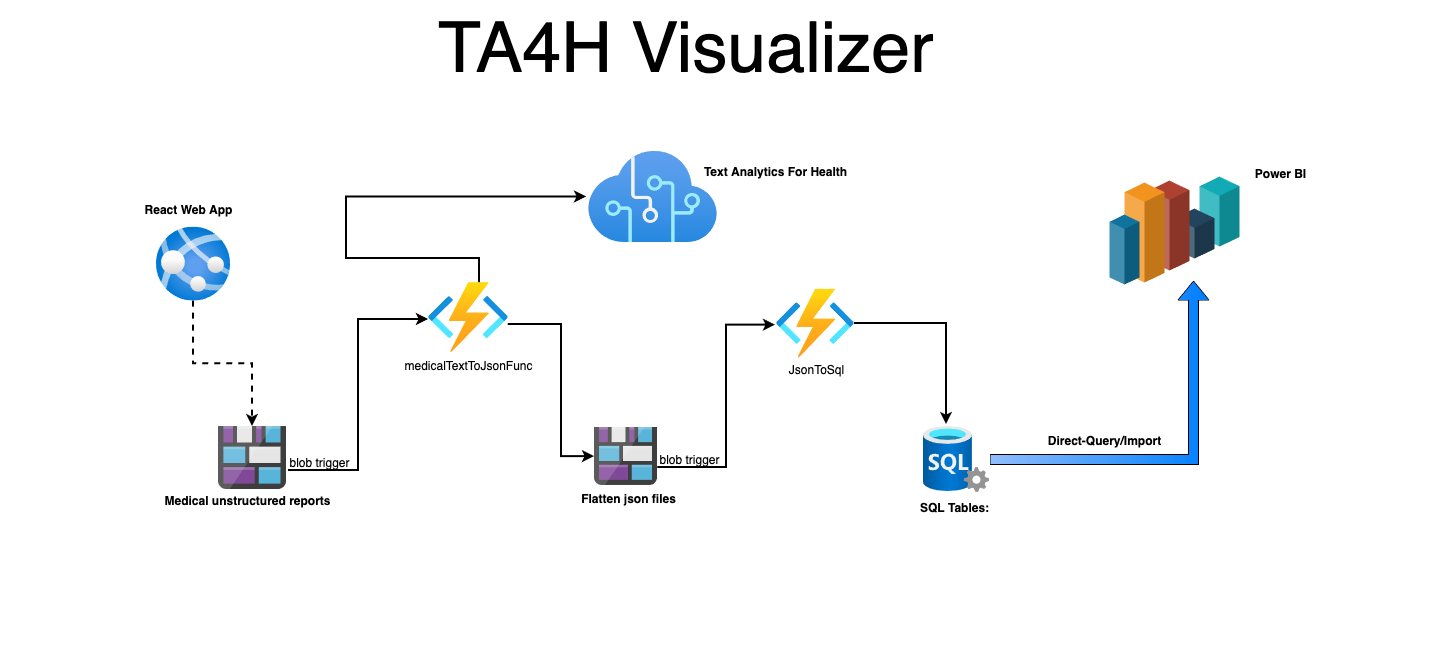
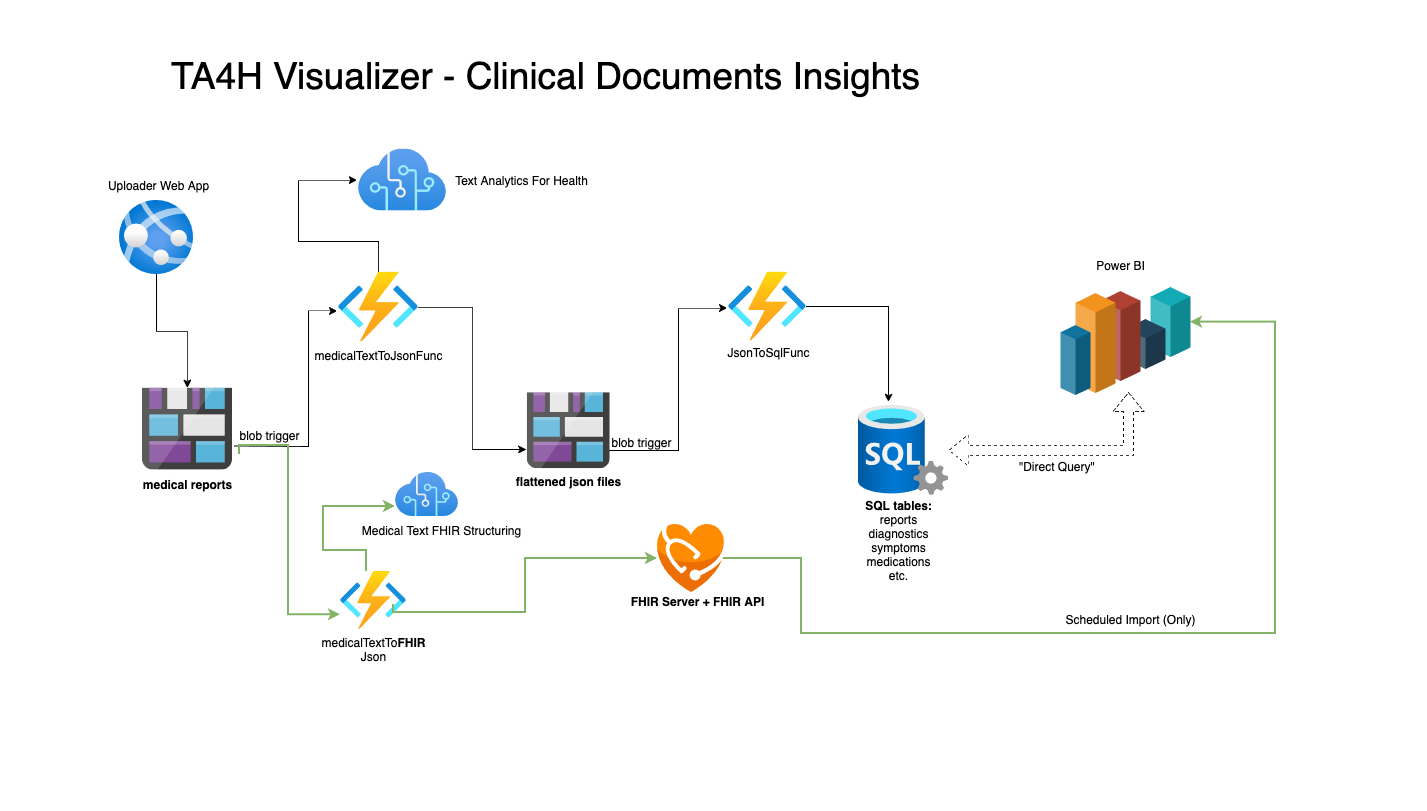
adding FHIR structuring support

diff --git a/azure_webapp/src/layout/VisualizeTab.tsx b/azure_webapp/src/layout/VisualizeTab.tsx
@@ -6,17 +6,14 @@ const VisualizeTab: React.FC = () => {
         <>
             <Stack horizontal horizontalAlign={"space-between"} verticalAlign={"center"}>
                 <h2>Reports</h2>
-                <Link href={"https://msit.powerbi.com/groups/me/reports/015a962a-5c80-4bf6-8c3f-04cc42c96bae/ReportSection"} target={"_blank"}>Open in Power BI</Link>
+                <Link href={"https://msit.powerbi.com/links/DzcgqNwbcN?ctid=72f988bf-86f1-41af-91ab-2d7cd011db47&pbi_source=linkShare"} target={"_blank"}>Open in Power BI</Link>
             </Stack>
 
-            { <iframe
-                title="ta4h - Page 1"
-                width="1140"
-                height="541.25"
-                src="https://msit.powerbi.com/reportEmbed?reportId=015a962a-5c80-4bf6-8c3f-04cc42c96bae&autoAuth=true&ctid=72f988bf-86f1-41af-91ab-2d7cd011db47&config=eyJjbHVzdGVyVXJsIjoiaHR0cHM6Ly9kZi1tc2l0LXNjdXMtcmVkaXJlY3QuYW5hbHlzaXMud2luZG93cy5uZXQvIn0%3D"
-                frameBorder="0"
-                allowFullScreen>
-            </iframe> }
+            {
+            <iframe title="Clinical Insights_FHIR" width="1140" height="541.25"
+                        src="https://msit.powerbi.com/reportEmbed?reportId=165d7372-6d74-47e3-8907-258ecd39a000&autoAuth=true&ctid=72f988bf-86f1-41af-91ab-2d7cd011db47&config=eyJjbHVzdGVyVXJsIjoiaHR0cHM6Ly9kZi1tc2l0LXNjdXMtcmVkaXJlY3QuYW5hbHlzaXMud2luZG93cy5uZXQvIn0%3D"
+                        frameBorder="0" allowFullScreen></iframe>
+            }
         </>
     );
 };

diff --git a/azure_functions/medical_documents_to_fhir_func/index.ts b/azure_functions/medical_documents_to_fhir_func/index.ts
@@ -1,5 +1,4 @@
 import { AzureFunction, Context } from "@azure/functions";
-import {response} from "express";
 const axios = require('axios').default;
 
 
@@ -23,17 +22,20 @@ const blobTrigger: AzureFunction = async function (context: Context, myBlob: any
         params:  { structureFHIR: true }
     };
     // const data = {body: { documents: documents }};
+
+    let fhirDocs = [];
     const data = { "documents": documents };
     try {
         const resp = await axios.post(endpoint, data, config);
         context.log(resp);
+        fhirDocs = resp.data.documents.map(d => JSON.parse(d.fhirBundle));
     }
     catch (err) {
         context.log(err);
+        throw err;
     }
 
 
-    const fhirDocs = response.data.documents.map(d => JSON.parse(d.fhirBundle));
     context.log(fhirDocs);
 }
 
